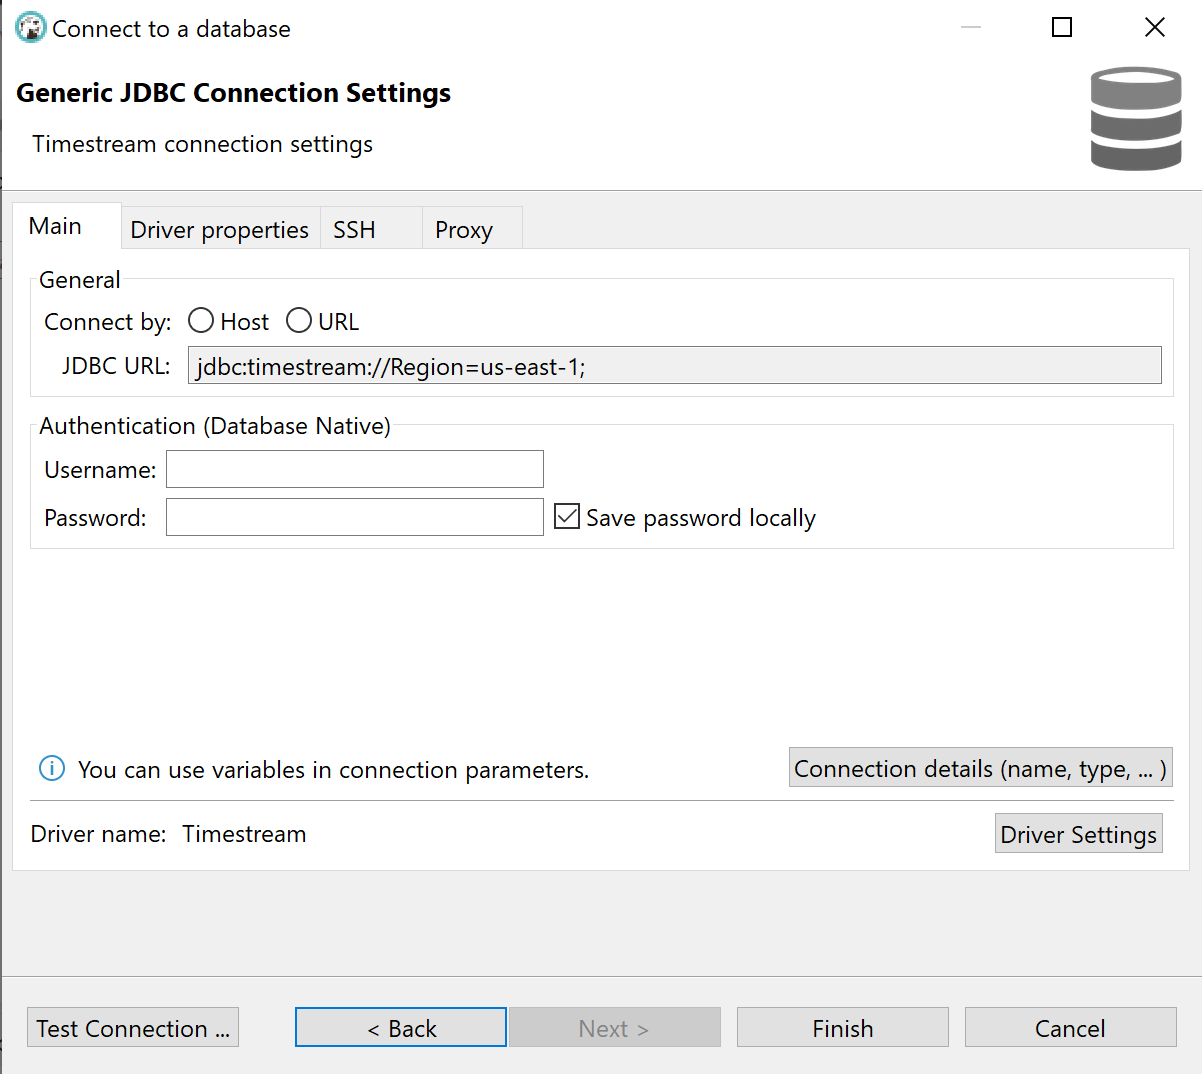
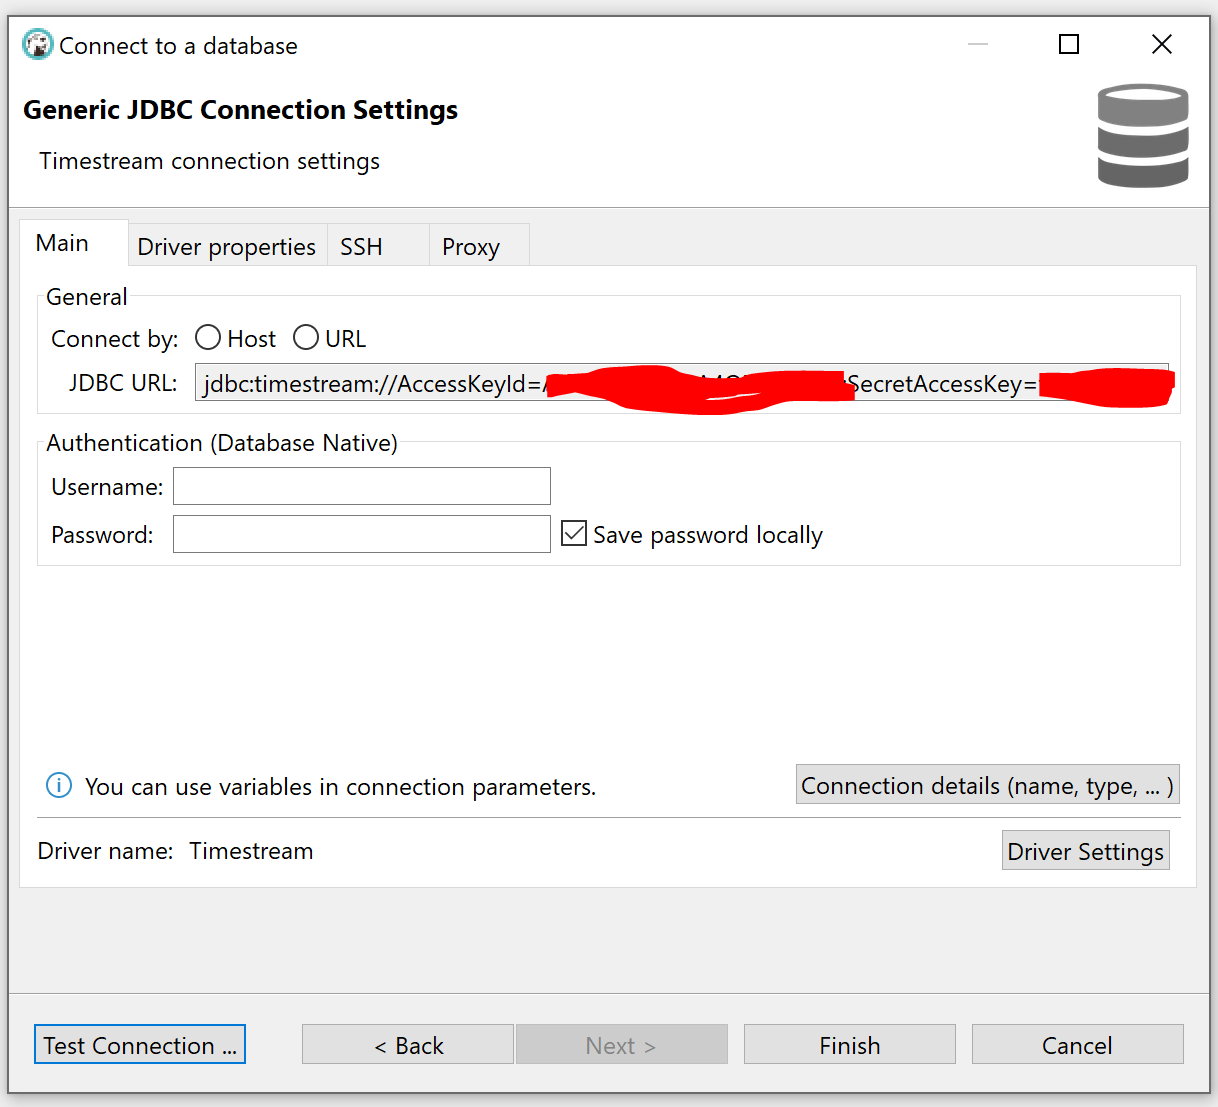
document update

Changed region(s): [[0.0, 0.0, 1.0, 1.0], [0.4309, 0.4609, 0.6772, 0.4916]]

diff --git a/markdown/setup/dbeaver-driver-setup.md b/markdown/setup/dbeaver-driver-setup.md
@@ -11,20 +11,11 @@
     a. In **Settings** tab, for **Driver Name** field, enter a descriptive name (e.g. `Timestream`)
 
     b. In **Settings** tab, for **URL Template** field, enter your JDBC connection string. For example:
-      
-    ```
-        -- replace the values in "<>" with your own value
-        jdbc:timestream://Region=<region>;
-    ```
-
-    If your database requires an username and password, it can be entered in the connection string when setting up the driver
 
     ```
         -- replace the values in "<>" with your own value
         jdbc:timestream://AccessKeyId=<myAccessKeyId>;SecretAccessKey=<mySecretAccessKey>;SessionToken=<mySessionToken>;Region=<myRegion>
     ```
-
-    or username and password can be entered later when connecting to Amazon Timestream using DBeaver.
 
     ![Example](../images/dbeaver/dbeaver1.png)
 
@@ -43,10 +34,10 @@
 
     ![Example](../images/dbeaver/dbeaver3.png)
 
-3. In the **Main** tab, in the **Authentication** section, enter the username and password if your database requires it AND if it was not entered in URL Template when setting up your driver. Otherwise you can leave it empty. The **JDBC URL** for your driver is shown in this prompt.
+3. After you see the popup window as below, click **Test Connection ...** to confirm your connection to Timestream.
 
     ![Example](../images/dbeaver/dbeaver4.png)
 
-4. Click **Test Connection ...** to confirm your connection and then click **Finish**. After you succeed to connect to Timestream, click the driver name on the left window. Then you will be able to see the all the database listed as the example.
+4. Click **Finish**. After you succeed to connect to Timestream, click the driver name on the left window. Then you will be able to see the all the database listed as the example.
 
     ![Example](../images/dbeaver/dbeaver5.png)

diff --git a/markdown/setup/dbvisualizer-driver-setup.md b/markdown/setup/dbvisualizer-driver-setup.md
@@ -31,13 +31,9 @@
 
     c. For the **Driver Type** field, ensure the **Timesteam** is selected.
 
-    d. For the **Database URL** field, enter your [JDBC connection string](../../README.md#optional-connection-properties). For example, ```jdbc:timestream://Region=us-east-1;```
+    d. For the **Database URL** field, enter your [JDBC connection string](../../README.md#optional-connection-properties). For example, ```jdbc:timestream://AccessKeyId=abcdef;SecretAccessKey=123456;Region=us-east-1;```
 
-    e. For the **Database Userid** field, enter your Amazon Timestream user ID.
-
-    f. For the **Database Password** field, enter the corresponding password for the user ID.
-
-    g. Your **Database Connection** dialog should look like the following.
+    e. Your **Database Connection** dialog should look like the following.
 
     ![Example](../images/dbvisualizer/DbVisualizer3.png)
 

diff --git a/markdown/setup/squirrel-driver-setup.md b/markdown/setup/squirrel-driver-setup.md
@@ -32,7 +32,7 @@
     ![Example](../images/squirrel/squirrel4.png)
 
 3. Navigate the menu path **Aliases > New Alias...**
-4. In the popped up window, fill the following info
+4. In the popup window, fill the following info
 
     a. For the **Name:** field, enter a name for this alias. For example, `TimestreamConnection`
     
